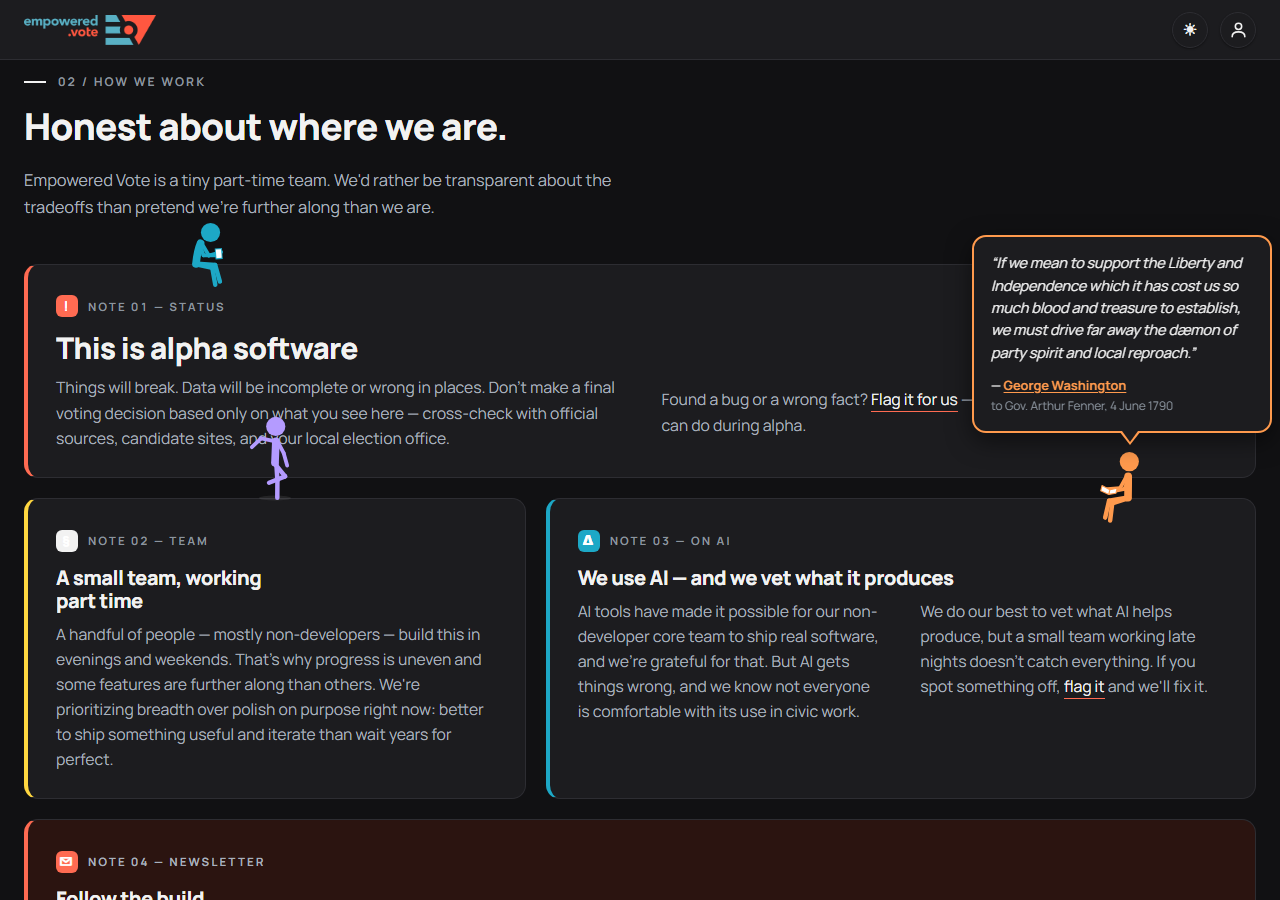
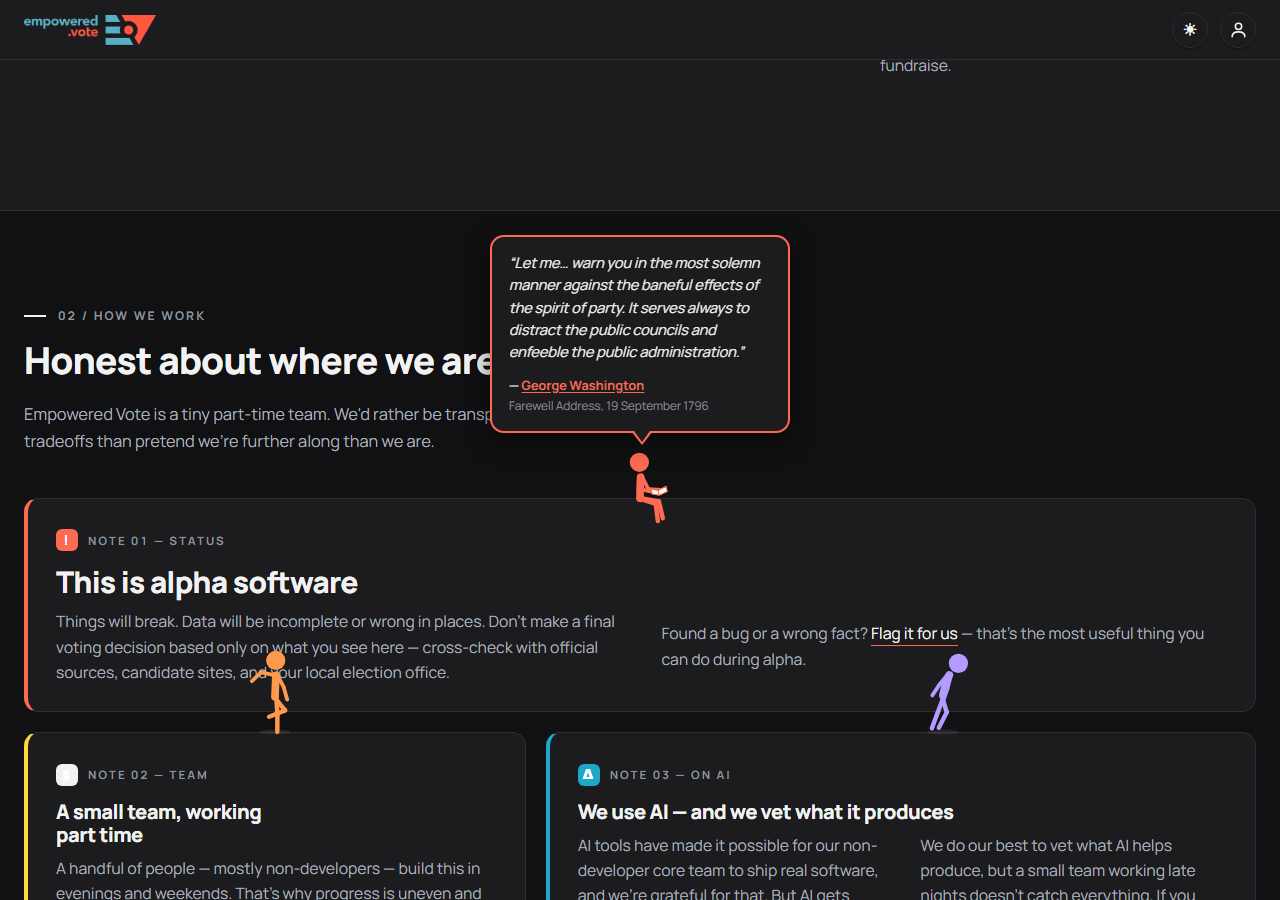
fix(quotes): Kennedy quote — his own words only, en dash per the source
Link confirmed working by Chris; the page text was then read from a
Wayback capture (web.archive.org/web/2024id_/<url> gets past the
Cloudflare challenge that blocks jfklibrary.org directly). All seven
sources have now been read at source.

Two corrections from that reading:
- the dash before "let us accept" is an EN dash, not the em dash this
  entry had picked up from a reprint. Asserted in 01-deal.cjs now.
- Box 899 citation confirmed.

Quote trimmed to Kennedy's own two sentences. The preceding line and the
poet's verse he closes on were both tried and cut — the verse reads as
though written for this project ("Clear away all thought of faction")
but the words are another author's, and a bubble attributes everything
inside it to the named speaker. Tested, and the reason is recorded in
presidential_quotes.md so it is not re-added later.

diff --git a/ev-quotes.js b/ev-quotes.js
@@ -47,7 +47,11 @@
       href: "https://tjrs.monticello.org/letter/382"
     },
     {
-      text: "Let us not despair but act. Let us not seek the Republican answer or the Democratic answer but the right answer. Let us not seek to fix the blame for the past — let us accept our own responsibility for the future.",
+      // Punctuation follows the JFK Library text exactly: no comma after "Democratic
+      // answer", and an EN dash before "let us accept" (reprints substitute an em dash or a
+      // full stop). He closes on a poet's verse — deliberately NOT included, since those are
+      // another author's words and the bubble attributes everything in it to the speaker.
+      text: "Let us not seek the Republican answer or the Democratic answer but the right answer. Let us not seek to fix the blame for the past – let us accept our own responsibility for the future.",
       who: "John F. Kennedy",
       where: "Loyola College Alumni Banquet, Baltimore, 18 February 1958",
       href: "https://www.jfklibrary.org/archives/other-resources/john-f-kennedy-speeches/baltimore-md-19580218"

diff --git a/presidential_quotes.md b/presidential_quotes.md
@@ -16,6 +16,10 @@ speech, not the 1962 State of the Union, and the "dæmon of party spirit" passag
 to Rhode Island's governor, not the Farewell Address. The Charles Yancey quote has been removed —
 ungarbled, it is much less compelling than the misquotation that was circulating.
 
+**All seven live quotes have now been read at their source.** Where a host blocks automated fetching,
+a Wayback Machine capture (`https://web.archive.org/web/2024id_/<url>`) served instead — that is how
+the Kennedy page was finally read.
+
 ---
 
 ## On the danger of parties and faction
@@ -97,23 +101,39 @@ transcribed in the Adams Papers, which is what the link shows.
 
 ### John F. Kennedy — Loyola College Alumni Banquet
 
-> "Let us not despair but act. Let us not seek the Republican answer or the Democratic answer but the
-> right answer. Let us not seek to fix the blame for the past — let us accept our own responsibility
-> for the future."
+> "Let us not seek the Republican answer or the Democratic answer but the right answer. Let us not
+> seek to fix the blame for the past – let us accept our own responsibility for the future."
 
-Punctuation follows the source: no comma after "the Democratic answer," and an em dash rather than a
-full stop before "let us accept." Popular reprints add the comma and split the last sentence.
+**Do not extend this quote.** The words either side of it are tempting and both were tried and
+rejected. It is preceded by "Let us not despair but act," and followed by a verse Kennedy quotes from
+a poet — "Now has come the time for action, Clear away all thought of faction, Out from vacillating
+shame – Every man no lie contain, Let him answer to his name – Call the roll." That verse is on-message
+almost to a fault, which is exactly the trap: **they are another author's words**, and the site's
+bubble attributes everything inside it to the named speaker. `tests/quotes/01-deal.cjs` asserts the
+verse stays out.
+
+**Punctuation follows the JFK Library text exactly:** no comma after "the Democratic answer," and an
+**en** dash — not an em dash and not a full stop — before "let us accept." Popular reprints get both
+wrong, and this entry had already drifted to the em-dash version once; `tests/quotes/01-deal.cjs`
+now asserts the en dash so it cannot drift back.
+
+The sentence immediately before the quote is "…if you and I and all of us demand a better education
+for all – for politicians as well as scientists – for diplomats as well as engineers – for all
+citizens in all occupations – then we may face the future with hope and with confidence."
 
 **Source:** Remarks of Senator John F. Kennedy at the Loyola College Annual Alumni Banquet,
 Baltimore, Maryland, February 18, 1958. Papers of John F. Kennedy, Pre-Presidential Papers, Senate
 Files, Box 899 (JFK Presidential Library).
 **Link:** https://www.jfklibrary.org/archives/other-resources/john-f-kennedy-speeches/baltimore-md-19580218
-**Status:** ⚠ Attribution corrected; link needs one browser click. This was previously filed as the
-January 11, 1962 State of the Union — a very common misattribution. The phrase does not appear in the
-1962 address. Kennedy said it as a **senator**, nearly three years before he took office, which is
-worth knowing before the site calls him "President" alongside the quote. jfklibrary.org sits behind
-bot protection, so the page could not be opened automatically; the URL is a real JFK Library speech
-page with a matching title.
+**Status:** ✅ Verified — link confirmed working by Chris (2026-08-02), and the page text read from a
+Wayback Machine capture (jfklibrary.org itself sits behind a Cloudflare challenge, so it cannot be
+fetched directly; `https://web.archive.org/web/2024id_/<url>` works). The archived page also confirms
+the Senate Files, Box 899 citation above.
+
+Attribution was corrected: this was previously filed as the January 11, 1962 State of the Union — a
+very common misattribution. The phrase does not appear in the 1962 address. Kennedy said it as a
+**senator**, nearly three years before he took office, which is worth knowing before the site calls
+him "President" alongside the quote.
 
 ---
 

diff --git a/docs/superpowers/specs/2026-08-02-bobit-quote-readers-design.md b/docs/superpowers/specs/2026-08-02-bobit-quote-readers-design.md
@@ -27,13 +27,17 @@ from it. Seven entries at launch:
 | Jefferson | to Edward Carrington, 16 Jan 1787 | ✅ read at source (UChicago) |
 | Jefferson | to George Wythe, 13 Aug 1786 | ✅ read at source (Monticello) |
 | Jefferson | to William C. Jarvis, 28 Sep 1820 | ✅ read at source (Monticello) |
-| Kennedy | Loyola College Alumni Banquet, 18 Feb 1958 | ⚠ real page, Cloudflare-blocked, needs a click |
+| Kennedy | Loyola College Alumni Banquet, 18 Feb 1958 | ✅ read at source (Wayback capture) |
 
-**Blocking on launch:** the Kennedy URL must be opened in a browser and confirmed before this ships. A
-quote feature whose whole promise is "click through and check" cannot ship with an unconfirmed link.
-Its attribution was also corrected from the 1962 State of the Union on the strength of agreeing
-secondary sources rather than a reading of the JFK Library page itself, so that page is the one thing
-here that has not been seen directly.
+**Launch blocker cleared (2026-08-02).** The Kennedy link was confirmed working, and its text was then
+read from a Wayback Machine capture — `https://web.archive.org/web/2024id_/<url>` reaches pages whose
+host blocks direct fetching, which jfklibrary.org does via Cloudflare. That reading corrected the
+punctuation (an en dash, not the em dash carried from a reprint) and confirmed the Senate Files, Box 899
+citation. **All seven sources have now been read directly.**
+
+The Kennedy quote is deliberately limited to his own two sentences. The line before it ("Let us not
+despair but act") and the poet's verse he closes on were both tried and cut: the verse is another
+author's words, and a bubble attributes everything inside it to the named speaker.
 
 Each entry carries `text`, `who`, `where` (the document and date), and `href`.
 

diff --git a/docs/superpowers/plans/2026-08-02-bobit-quote-readers.md b/docs/superpowers/plans/2026-08-02-bobit-quote-readers.md
@@ -1444,11 +1444,8 @@ git commit -m "feat(quotes): wire quote readers into the cast, clicks, Esc and t
 
 ## Before this ships
 
-- [ ] **Open the Kennedy link in a browser and confirm it carries the quote.**
-      https://www.jfklibrary.org/archives/other-resources/john-f-kennedy-speeches/baltimore-md-19580218
-      This is the one source in the pool that was never read directly — jfklibrary.org sits behind a
-      Cloudflare challenge. Its attribution was corrected away from the 1962 State of the Union on the
-      strength of agreeing secondary sources, not a reading of the page. A feature whose whole promise
-      is "click through and check the source" must not ship with an unconfirmed link. If the page does
-      not carry the text, remove the entry rather than guess at a replacement citation.
-- [ ] Merge `feat/bobit-quote-readers` into `main` only after that check. `main` auto-deploys to Render.
+- [x] **Kennedy link confirmed (2026-08-02).** Chris opened it; the text was then read from a Wayback
+      capture (`https://web.archive.org/web/2024id_/<url>` gets past the Cloudflare challenge that
+      blocks direct fetching). This corrected the dash to an en dash and confirmed the Box 899
+      citation. All seven sources have now been read at source.
+- [x] Merge `feat/bobit-quote-readers` into `main`. `main` auto-deploys to Render.
